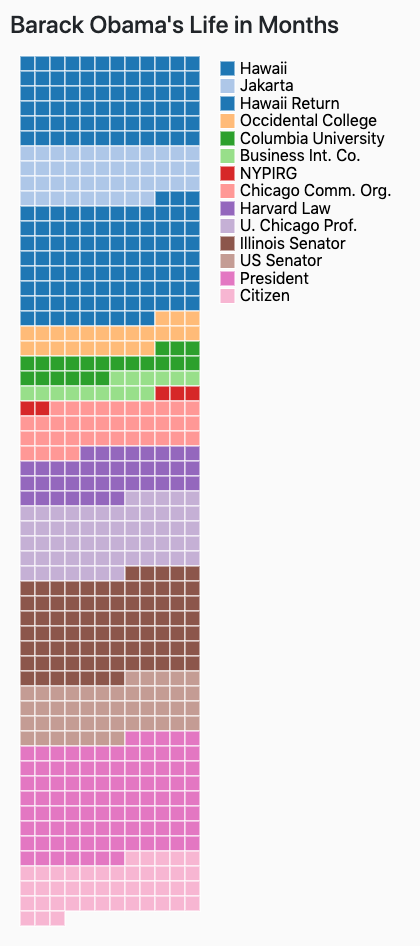
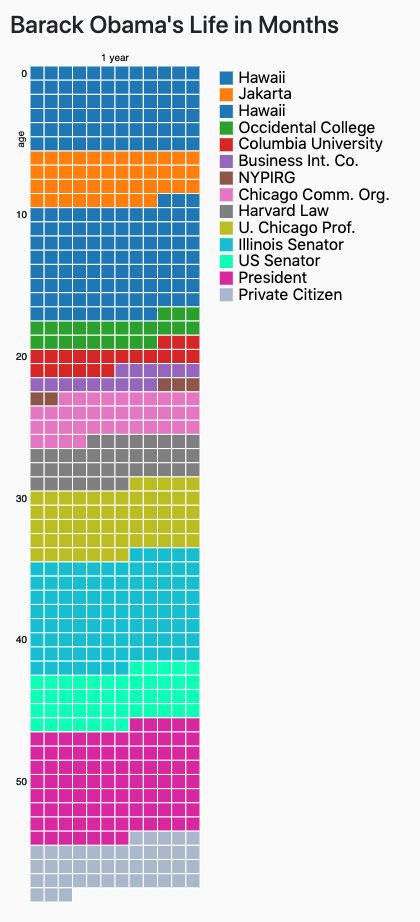
Updated images with axes. Saved data for future use as demos.

diff --git a/assets/scripts/months.js b/assets/scripts/months.js
@@ -1,4 +1,26 @@
 $(document).ready(function() {
+
+  var obamadata = [
+      { "name": "Hawaii", "value":72},
+      { "name": "Jakarta", "value":45},
+      { "name": "Hawaii", "value":96},
+      { "name": "Occidental College", "value":24},
+      { "name": "Columbia University", "value":21},
+      { "name": "Business Int. Co.", "value":15},
+      { "name": "NYPIRG", "value":5},
+      { "name": "Chicago Comm. Org.", "value":38},
+      { "name": "Harvard Law", "value":39},
+      { "name": "U. Chicago Prof.", "value":60},
+      { "name": "Illinois Senator", "value":96},
+      { "name": "US Senator", "value":48},
+      { "name": "President", "value":96},
+      { "name": "Private Citizen", "value":44}
+    ];
+
+  var obamarange = ["#1f77b4", "#ff7f0e", "#1f77b4", "#2ca02c", "#d62728",
+  "#9467bd", "#8c564b", "#e377c2", "#7f7f7f", "#bcbd22", "#17becf",
+  "#0fffb7", "#d728a0", "#a9b9cb"];
+
   var goadrichdata = [
     { "name": "Northampton", "value":96},
     { "name": "Canvas", "value":96},
@@ -11,6 +33,17 @@ $(document).ready(function() {
     { "name": "Conway", "value":75}
   ];
   var goadrichrange = ["#008080", "#002855", "#4B2E84", "#008B2B", "#c5050c", "#0f52ba","#c5050c", "#8a2432", "#E96B10"];
+
+  var isabelladata = [
+    { "name": "childhood", "value":160},
+    { "name": "high school", "value":46},
+    { "name": "college", "value":48},
+    { "name": "adulting", "value":30},
+    { "name": "moved back to U.S.", "value":9},
+    { "name": "time left", "value":559},
+  ];
+
+  var isabellarange = ["#EF476F","#FCA311","#FFD166","#0EAD69","#4ECDC4","#118AB2"];
 
   var originaldata = [
     { "name": "Childhood", "value":184},
